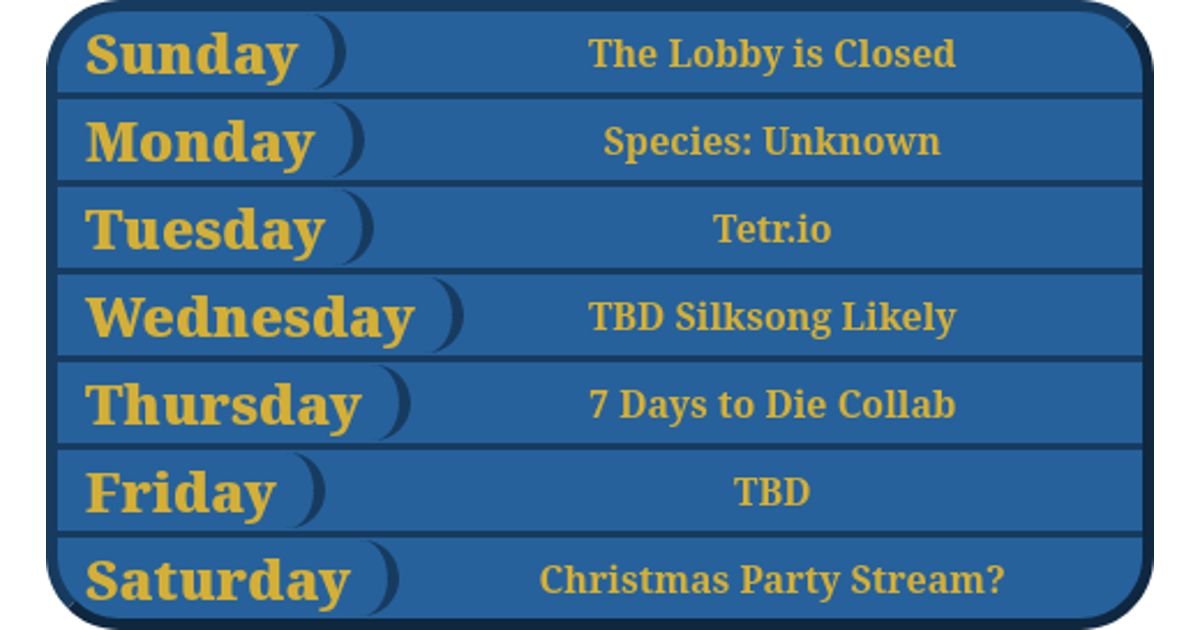
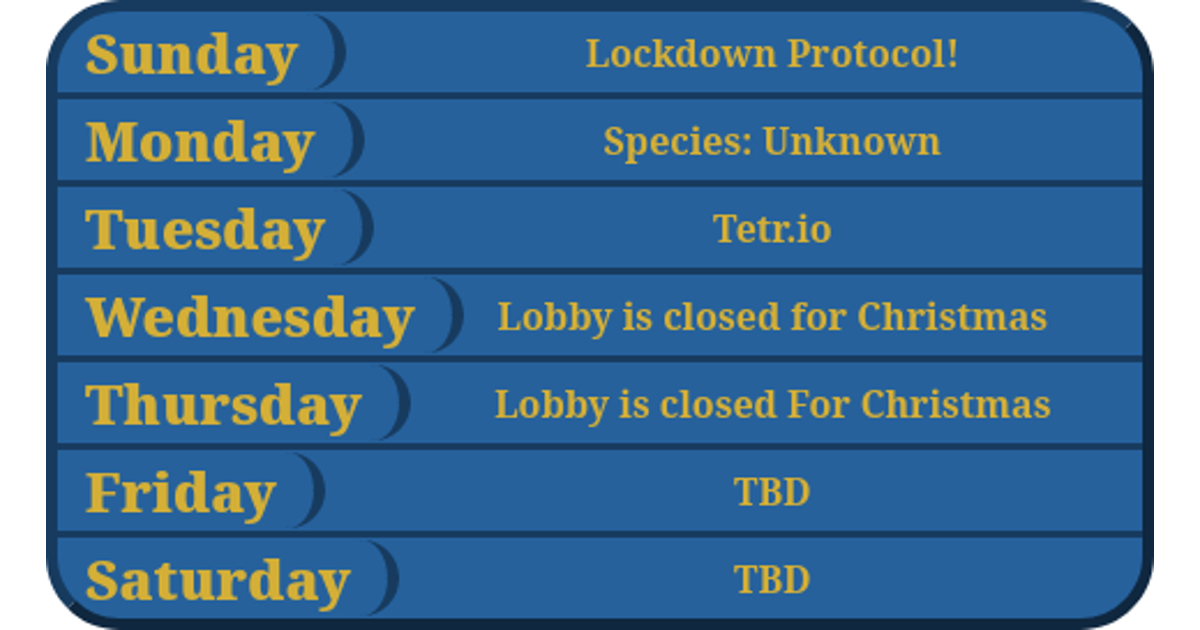
Holiday schedule

diff --git a/schedule/index.html b/schedule/index.html
@@ -8,8 +8,8 @@
     <meta content="Stream Schedule" property="og:title" />
     <meta content="The schedule for my streams, which I try to stay on top of" property="og:description" />
     <meta content="https://atlas-chainsteel.github.io/schedule/" property="og:url" />
-    <meta id="og-image" content="https://atlas-chainsteel.github.io/schedule/embedimage.png?v=9" property="og:image" />
-    <meta id="twitEmbed" content="https://atlas-chainsteel.github.io/schedule/embedimage.png?v=9" name="twitter:image" />
+    <meta id="og-image" content="https://atlas-chainsteel.github.io/schedule/embedimage.png?v=10" property="og:image" />
+    <meta id="twitEmbed" content="https://atlas-chainsteel.github.io/schedule/embedimage.png?v=10" name="twitter:image" />
     <meta content="summary_large_image" name="twitter:card" />
     <meta content="#26619c" data-react-helmet="true" name="theme-color" />
   </head>
@@ -18,7 +18,7 @@
     <div class="cont">
       <table class="schedule">
         <tr class="row">
-          <td class="day">Sunday</td><td class="plans">The Lobby is Closed</td>
+          <td class="day">Sunday</td><td class="plans">Lockdown Protocol!</td>
         </tr>
         <tr class="row">
           <td class="day">Monday</td><td class="plans">Species: Unknown</td>
@@ -27,15 +27,15 @@
           <td class="day">Tuesday</td><td class="plans">Tetr.io</td>
         </tr>
         <tr class="row">
-          <td class="day">Wednesday</td><td class="plans">TBD Silksong Likely</td>
+          <td class="day">Wednesday</td><td class="plans">Lobby is closed for Christmas</td>
         <tr class="row">
-          <td class="day">Thursday</td><td class="plans">7 Days to Die Collab</td>
+          <td class="day">Thursday</td><td class="plans">Lobby is closed For Christmas</td>
         </tr>
         <tr class="row">
           <td class="day">Friday</td><td class="plans">TBD</td>
         </tr>
         <tr class="row">
-          <td class="day">Saturday</td><td class="plans">Christmas Party Stream?</td>
+          <td class="day">Saturday</td><td class="plans">TBD</td>
         </tr>
       </table>
       <hr class="divide">
